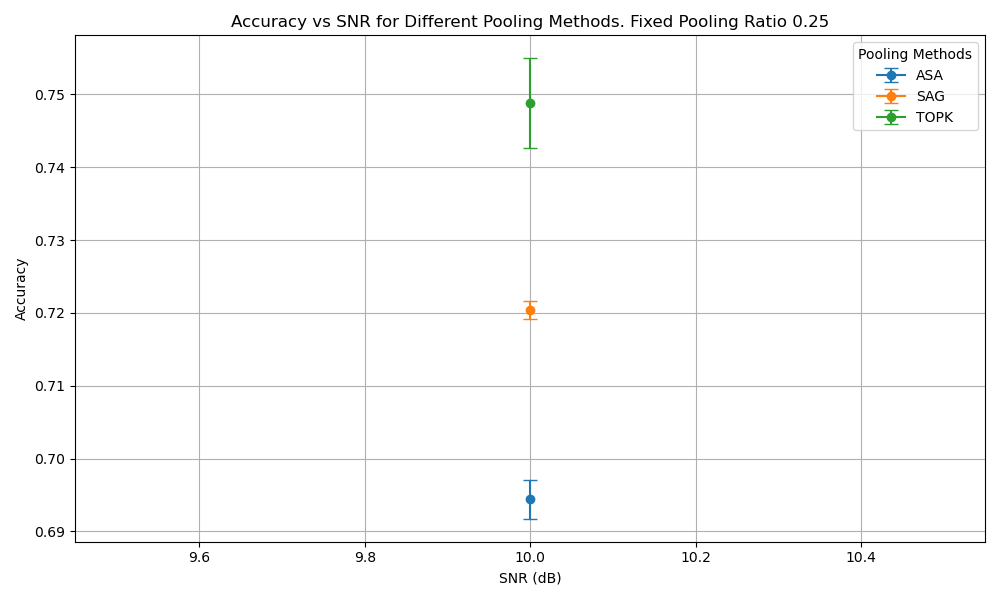
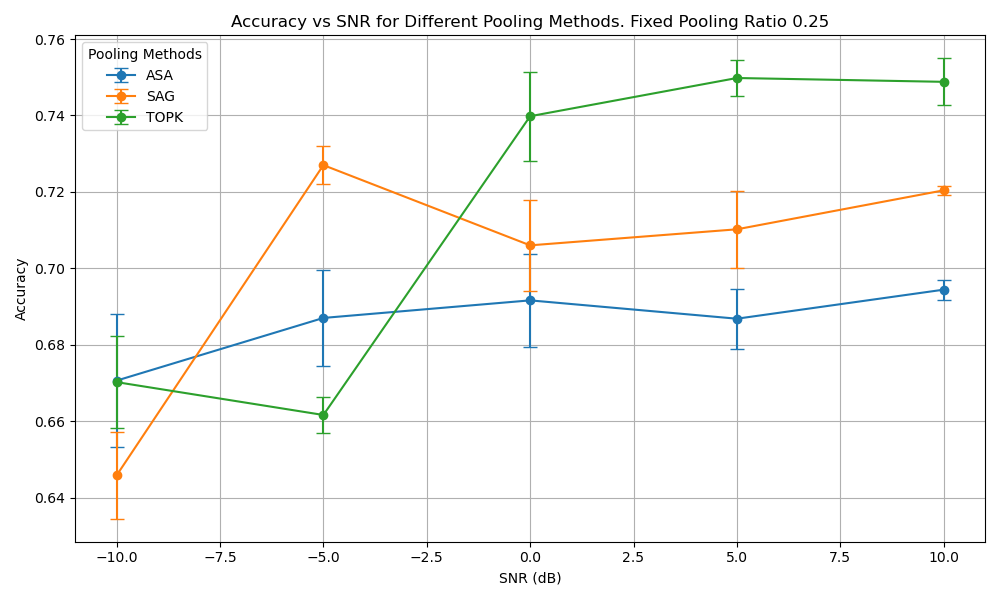
comparing to baseline

diff --git a/main.py b/main.py
@@ -14,7 +14,7 @@ from loaders import *
 from pytorch_lightning.callbacks import EarlyStopping
 from pytorch_lightning.callbacks import ModelCheckpoint
 from baseline_models import MLP_KMeans, MLP_PCA, Perceiver_channel, MLP_Bottleneck
-
+import pickle
 
 @hydra.main(version_base=None, config_path="conf", config_name="config")
 
@@ -325,6 +325,14 @@ def compare_poolings(config: DictConfig, snr):
         method_accuracies = []
         method_std = []
 
+        if config.pooling.pooling_type == 'perceiver': 
+            config.my_model.name = 'perceiver'
+        elif config.pooling.pooling_type == 'mlp_bottleneck':
+            config.my_model.name = 'perceiver'
+        elif config.pooling.pooling_type in ['asa', 'sag', 'topk']:
+            config.my_model.name = 'dgm_channel'
+
+
         for pool_ratio in config.exp.pooling_ratios:
 
             config.pooling.pooling_ratio = pool_ratio
@@ -356,7 +364,7 @@ def plot_results_pool(results, pooling_ratios, config):
         std_dev = results["std"]
         plt.errorbar(pooling_ratios, accuracies, yerr=std_dev, label=f"{pool_method.upper()}", capsize=5, marker='o')
 
-    plt.title(f"Accuracy vs Pooling Ratio for Different Pooling Methods. Trained with noise on {config.dataset.loader.parameters.data_name}")
+    plt.title(f"Accuracy vs Pooling Ratio for Different Pooling Methods. Fixed SNR to {config.my_model.channel.snr_db}")
     plt.xlabel("Pooling Ratio")
     plt.ylabel("Accuracy")
     plt.legend(title="Pooling Methods")
@@ -365,8 +373,8 @@ def plot_results_pool(results, pooling_ratios, config):
 
 
 @hydra.main(version_base=None, config_path="conf", config_name="config")
-def compare_poolings_over_snr(config: DictConfig):
-    save_dir = "compare_poolings" 
+def compare_poolings_fixed_snr(config: DictConfig):
+    save_dir = "compare_poolings_fixedsnr" 
     os.makedirs(save_dir, exist_ok=True)  
 
     for snr_value in config.exp.snr_values:
@@ -386,78 +394,247 @@ def compare_poolings_over_snr(config: DictConfig):
 
 # for fixed pooling ratio in validation, compare different SNR values
 
-def compare_snrs(config: DictConfig, pool_ratio):
+# def compare_snrs(config: DictConfig, pool_ratio):
 
-    config.pooling.pooling_ratio = pool_ratio
+#     config.pooling.pooling_ratio = pool_ratio
 
-    results = {}
+#     results = {}
 
-    for pool_method in config.exp.pool_methods: 
+#     for pool_method in config.exp.pool_methods: 
 
-        config.pooling.pooling_type = pool_method
+#         config.pooling.pooling_type = pool_method
 
-        method_accuracies = []
-        method_std = []
+#         method_accuracies = []
+#         method_std = []
 
-        for snr_value in config.exp.snr_values:
+#         for snr_value in config.exp.snr_values:
 
-            config.my_model.channel.snr_db = snr_value
-            trainer, model, datamodule = setup_training(config)
+#             config.my_model.channel.snr_db = snr_value
+#             trainer, model, datamodule = setup_training(config)
 
-            trial_accuracies = []
+#             trial_accuracies = []
 
-            for _ in range(config.exp.num_trials):
+#             for _ in range(config.exp.num_trials):
 
-                test_result = trainer.validate(model, datamodule)
-                trial_accuracies.append(test_result[0]['val_acc'])
+#                 test_result = trainer.validate(model, datamodule)
+#                 trial_accuracies.append(test_result[0]['val_acc'])
 
-            method_accuracies.append(np.mean(trial_accuracies))
-            method_std.append(np.std(trial_accuracies))
+#             method_accuracies.append(np.mean(trial_accuracies))
+#             method_std.append(np.std(trial_accuracies))
 
-        results[pool_method] = {
-            "accuracies": method_accuracies,
-            "std": method_std
-        }
+#         results[pool_method] = {
+#             "accuracies": method_accuracies,
+#             "std": method_std
+#         }
 
-    plot_results_snr(results, config.exp.snr_values, config)
+#     plot_results_snr(results, config.exp.snr_values, config)
 
 
-def plot_results_snr(results, snr_values, config):
-    plt.figure(figsize=(10, 6))
-    for pool_method, results in results.items():
-        accuracies = results["accuracies"]
-        std_dev = results["std"]
-        plt.errorbar(snr_values, accuracies, yerr=std_dev, label=f"{pool_method.upper()}", capsize=5, marker='o')
+# def plot_results_snr(results, snr_values, config):
+#     plt.figure(figsize=(10, 6))
+#     for pool_method, results in results.items():
+#         accuracies = results["accuracies"]
+#         std_dev = results["std"]
+#         plt.errorbar(snr_values, accuracies, yerr=std_dev, label=f"{pool_method.upper()}", capsize=5, marker='o')
 
-    plt.title(f"Accuracy vs SNR for Different Pooling Methods. Fixed Pooling Ratio {config.pooling.pooling_ratio}")
-    plt.xlabel("SNR (dB)")
-    plt.ylabel("Accuracy")
-    plt.legend(title="Pooling Methods")
-    plt.grid(True)
-    plt.tight_layout()
+#     plt.title(f"Accuracy vs SNR for Different Pooling Methods. Fixed Pooling Ratio {config.pooling.pooling_ratio}")
+#     plt.xlabel("SNR (dB)")
+#     plt.ylabel("Accuracy")
+#     plt.legend(title="Pooling Methods")
+#     plt.grid(True)
+#     plt.tight_layout()
+
+# @hydra.main(version_base=None, config_path="conf", config_name="config")
+# def compare_poolings_fixed_poolingratio(config: DictConfig):
+#     save_dir = "compare_poolings_snr" 
+#     os.makedirs(save_dir, exist_ok=True)  
+
+#     for pool_ratio in config.exp.pooling_ratios:
+#         print(f"Running experiment with Pooling Ratio: {pool_ratio}")
+#         compare_snrs(config, pool_ratio) 
+#         filename = os.path.join(save_dir, f"accuracy_vs_snr_pooling_ratio_{pool_ratio}_INT.png")
+#         plt.savefig(filename)
+#         plt.close() 
+#         print(f"Plot saved to {filename}")
+
+
+def save_results(results, filename):
+    with open(filename, 'wb') as f:
+        pickle.dump(results, f)
+    print(f"Results saved to {filename}")
+
+def load_results(filename):
+    if os.path.exists(filename):
+        with open(filename, 'rb') as f:
+            results = pickle.load(f)
+        print(f"Results loaded from {filename}")
+        return results
+    return {}
+
+
+def compare_poolings(config: DictConfig, trainer, snr, model, datamodule, pool_method, pool_ratio, results):
+    """
+    Compare model validation performance for a fixed SNR value and different pooling methods and ratios.
+    """
+    config.my_model.channel.snr_db = snr
+
+    trial_accuracies = []
+
+
+    # Validate the trained model multiple times for stability
+    for _ in range(config.exp.num_trials):
+        test_result = trainer.validate(model, datamodule)
+        trial_accuracies.append(test_result[0]['val_acc'])
+
+    if snr not in results:
+        results[snr] = {}
+
+    if pool_method not in results[snr]:
+        results[snr][pool_method] = {}
+
+    results[snr][pool_method][pool_ratio] = {
+        "accuracies": np.mean(trial_accuracies),
+        "std": np.std(trial_accuracies)
+    }
+
+    return results
+
 
 @hydra.main(version_base=None, config_path="conf", config_name="config")
 def compare_poolings_fixed_snr(config: DictConfig):
-    save_dir = "compare_poolings_snr" 
-    os.makedirs(save_dir, exist_ok=True)  
+    save_dir = "results_poolings_snrs_without_noise"
+    os.makedirs(save_dir, exist_ok=True)
+    results_file = os.path.join(save_dir, "results.pkl")
 
+    results = load_results(results_file)
+
+    # Loop over each pooling method and pooling ratio (these require retraining)
+    for pool_method in config.exp.pool_methods:
+
+        config.pooling.pooling_type = pool_method
+
+        if config.pooling.pooling_type == 'perceiver': 
+            config.my_model.name = 'perceiver'
+        elif config.pooling.pooling_type == 'mlp_bottleneck':
+            config.my_model.name = 'mlp_bottleneck'
+        elif config.pooling.pooling_type in ['asa', 'sag', 'topk']:
+            config.my_model.name = 'dgm_channel'
+
+        for pool_ratio in config.exp.pooling_ratios:
+
+            config.pooling.pooling_ratio = pool_ratio
+
+            # Train the model from scratch for the current pooling type and ratio
+            print(f"Training model with Pooling Method: {pool_method}, Pooling Ratio: {pool_ratio}")
+            trainer, best_model, datamodule = setup_training(config)
+
+            # Validate the trained model for different SNR values
+            for snr_value in config.exp.snr_values:
+                print(f"Validating with SNR: {snr_value} dB")
+
+                # Validate the model with the current SNR value
+                results = compare_poolings(config, trainer, snr_value, best_model, datamodule, pool_method, pool_ratio, results)
+
+    # Generate a plot for this SNR value
+    save_results(results, results_file)
+    plot_results_pool_per_snr(results, config.exp.pooling_ratios, config)
+    plot_results_pool_per_ratio(results, config.exp.snr_values, config)
+    
+    # # Save the plot
+    # filename = os.path.join(save_dir, f"accuracy_vs_pooling_ratio_snr_{snr_value}.png")
+    # plt.savefig(filename)
+    # plt.close()  # Close the plot to avoid overlap
+
+    print(f"Plots saved to {save_dir}")
+
+
+def plot_results_pool_per_ratio(results, snr_values, config):
+    # Iterate over each pooling ratio
     for pool_ratio in config.exp.pooling_ratios:
-        print(f"Running experiment with Pooling Ratio: {pool_ratio}")
-        compare_snrs(config, pool_ratio) 
-        filename = os.path.join(save_dir, f"accuracy_vs_snr_pooling_ratio_{pool_ratio}.png")
+        plt.figure(figsize=(10, 6))
+        
+        # Iterate over each pooling method
+        for pool_method in config.exp.pool_methods:
+            accuracies = []
+            std_devs = []
+
+            # Collect accuracy and std dev for each SNR value for this pooling ratio
+            for snr_value in snr_values:
+                if pool_method in results[snr_value] and pool_ratio in results[snr_value][pool_method]:
+                    accuracies.append(results[snr_value][pool_method][pool_ratio]["accuracies"])
+                    std_devs.append(results[snr_value][pool_method][pool_ratio]["std"])
+                else:
+                    print(f"No data found for SNR: {snr_value}, Method: {pool_method}, Ratio: {pool_ratio}")
+                    accuracies.append(None)
+                    std_devs.append(0)
+
+            # Plot the accuracies with error bars for the current method
+            plt.errorbar(snr_values, accuracies, yerr=std_devs, label=f"{pool_method.upper()}", capsize=5, marker='o')
+
+        # Customize each plot for the current pooling ratio
+        plt.title(f"Accuracy vs SNR for Pooling Ratio: {pool_ratio}")
+        plt.xlabel("SNR (dB)")
+        plt.ylabel("Accuracy")
+        plt.legend(title="Pooling Methods")
+        plt.grid(True)
+        plt.tight_layout()
+
+        # Save the plot as a PNG file
+        save_dir = "comparison_plots/without_noise/compare_poolings_ratio_plots"
+        os.makedirs(save_dir, exist_ok=True)
+        filename = os.path.join(save_dir, f"accuracy_vs_snr_ratio_{pool_ratio}.png")
         plt.savefig(filename)
-        plt.close() 
+        plt.close()  # Close the plot to avoid overlap
+
         print(f"Plot saved to {filename}")
 
 
 
+def plot_results_pool_per_snr(results, pooling_ratios, config):
+    # Iterate over each SNR value in the results dictionary
+    for snr_value in results:
+        plt.figure(figsize=(10, 6))
+        
+        # Iterate over each pooling method for the given SNR value
+        for pool_method, pool_data in results[snr_value].items():
+            accuracies = []
+            std_devs = []
 
+            # Extract accuracies and std deviations for each pooling ratio in the current method
+            for pool_ratio in pooling_ratios:
+                if pool_ratio in pool_data:
+                    accuracies.append(pool_data[pool_ratio]["accuracies"])
+                    std_devs.append(pool_data[pool_ratio]["std"])
+                else:
+                    print(f"No data found for pooling ratio: {pool_ratio} under method: {pool_method}")
+                    accuracies.append(None)
+                    std_devs.append(0)
+
+            # Plot the accuracies with error bars for the current method
+            plt.errorbar(pooling_ratios, accuracies, yerr=std_devs, label=f"{pool_method.upper()}", capsize=5, marker='o')
+
+        # Customize each plot for the current SNR value
+        plt.title(f"Accuracy vs Pooling Ratio for SNR: {snr_value} dB")
+        plt.xlabel("Pooling Ratio")
+        plt.ylabel("Accuracy")
+        plt.legend(title="Pooling Methods")
+        plt.grid(True)
+        plt.tight_layout()
+
+        # Save the plot as a PNG file
+        save_dir = "comparison_plots/without_noise/compare_poolings_snr_plots"
+        os.makedirs(save_dir, exist_ok=True)
+        filename = os.path.join(save_dir, f"accuracy_vs_pooling_ratio_snr_{snr_value}.png")
+        plt.savefig(filename)
+        plt.close()  # Close the plot to avoid overlap
+
+        print(f"Plot saved to {filename}")
 
 
 if __name__ == "__main__":
 
     #train_and_plot()
-    #setup_training()
+    # setup_training()
     #train_and_plot_comparison()
     compare_poolings_fixed_snr()
 

diff --git a/my_model.py b/my_model.py
@@ -30,7 +30,9 @@ class Model_channel(pl.LightningModule):
         elif self.pooling_type == 'sag': 
             self.pool = SAGPooling(in_channels = hparams["pre_layers"][0], ratio = float(self.pooling_ratio))      
         elif self.pooling_type == 'asa': 
-            self.pool = ASAPooling(in_channels = hparams["pre_layers"][0], ratio = float(self.pooling_ratio))      
+            self.pool = ASAPooling(in_channels = hparams["pre_layers"][0], ratio = float(self.pooling_ratio))     
+        else:
+            print(f'{self.pooling_type} not implemented.') 
         
         self.noisy_training = hparams["noisy_training"]
         self.noise = NoiseBlock()
@@ -93,7 +95,7 @@ class Model_channel(pl.LightningModule):
         elif hparams["skip_connection"] == False: 
             self.skip = None
 
-        self.receiver = MLP(hparams['receiver_layers'], dropout= hparams["dropout"])    
+        self.receiver = MLP(hparams['receiver_layers'], dropout= hparams["dropout"])    # TODO MLP or GNN?
 
     def forward(self, data):
         '''
